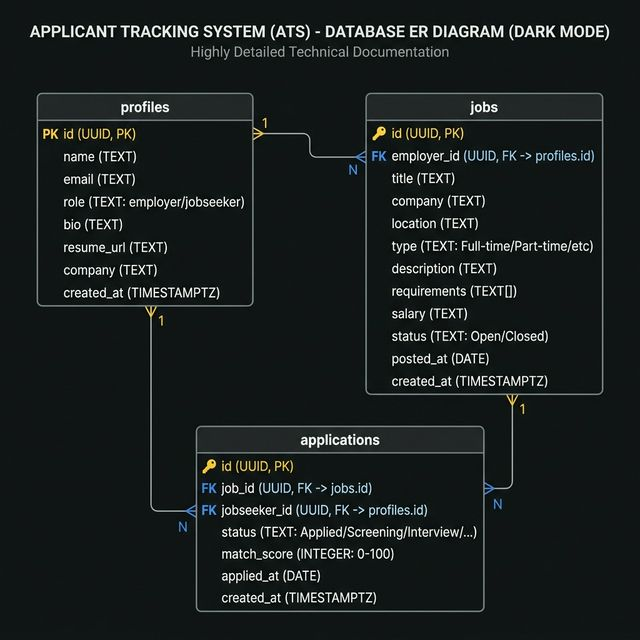
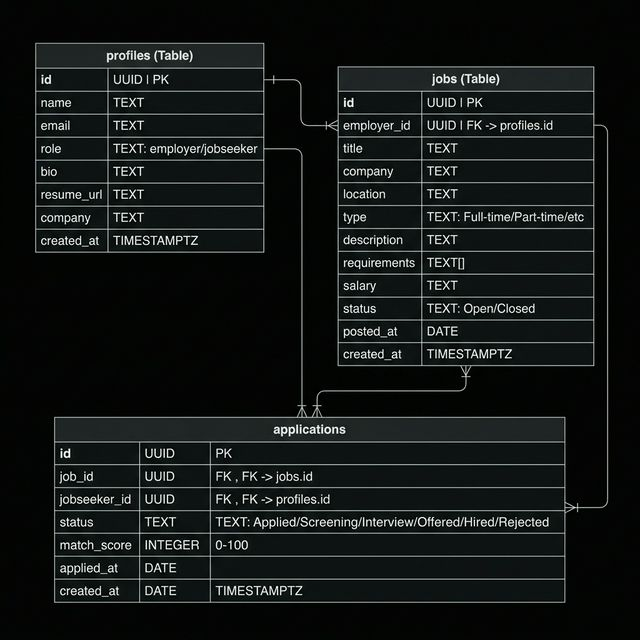
feat: add 'Hired' status to applications and update diagram

Changed region(s): [[0.0312, 0.0312, 0.9688, 0.9688], [0.375, 0.4375, 0.4062, 0.5], [0.1875, 0.9375, 0.2188, 0.9688]]

diff --git a/src/pages/employer/CandidatePipeline.tsx b/src/pages/employer/CandidatePipeline.tsx
@@ -8,14 +8,15 @@ import { ChevronRight, User, Loader2 } from "lucide-react";
 import { toast } from "sonner";
 import { motion } from "framer-motion";
 
-const STAGES: ApplicationStatus[] = ["Applied", "Screening", "Interview", "Offered", "Rejected"];
+const STAGES: ApplicationStatus[] = ["Applied", "Screening", "Interview", "Offered", "Hired", "Rejected"];
 
 const stageColors: Record<ApplicationStatus, string> = {
   Applied: "from-muted-foreground/60 to-muted-foreground/40",
   Screening: "from-primary to-primary/70",
   Interview: "from-warning to-warning/70",
-  Offered: "from-success to-success/70",
-  Rejected: "from-destructive to-destructive/70",
+  Offered: "from-primary/60 to-primary/40",
+  Hired: "from-emerald-500/60 to-emerald-500/40",
+  Rejected: "from-destructive/60 to-destructive/40",
 };
 
 const CandidatePipeline = () => {

diff --git a/src/components/Badges.tsx b/src/components/Badges.tsx
@@ -32,7 +32,8 @@ export const StatusBadge = ({ status }: StatusBadgeProps) => {
     Screening: "bg-primary/8 text-primary border-primary/15",
     Interview: "bg-warning/8 text-warning border-warning/15",
     Offered: "bg-success/8 text-success border-success/15",
-    Rejected: "bg-destructive/8 text-destructive border-destructive/15",
+    Rejected: "bg-destructive/10 text-destructive border-destructive/20",
+    Hired: "bg-emerald-500/10 text-emerald-500 border-emerald-500/20",
   };
 
   return (

diff --git a/src/data/mockData.ts b/src/data/mockData.ts
@@ -12,7 +12,7 @@ export interface Job {
   employerId: string;
 }
 
-export type ApplicationStatus = "Applied" | "Screening" | "Interview" | "Offered" | "Rejected";
+export type ApplicationStatus = "Applied" | "Screening" | "Interview" | "Offered" | "Hired" | "Rejected";
 
 export interface Application {
   id: string;

diff --git a/src/lib/supabase.ts b/src/lib/supabase.ts
@@ -53,7 +53,8 @@ export type ApplicationStatus =
   | "Screening"
   | "Interview"
   | "Offered"
-  | "Rejected";
+  | "Rejected"
+  | "Hired";
 
 export interface Application {
   id: string;
